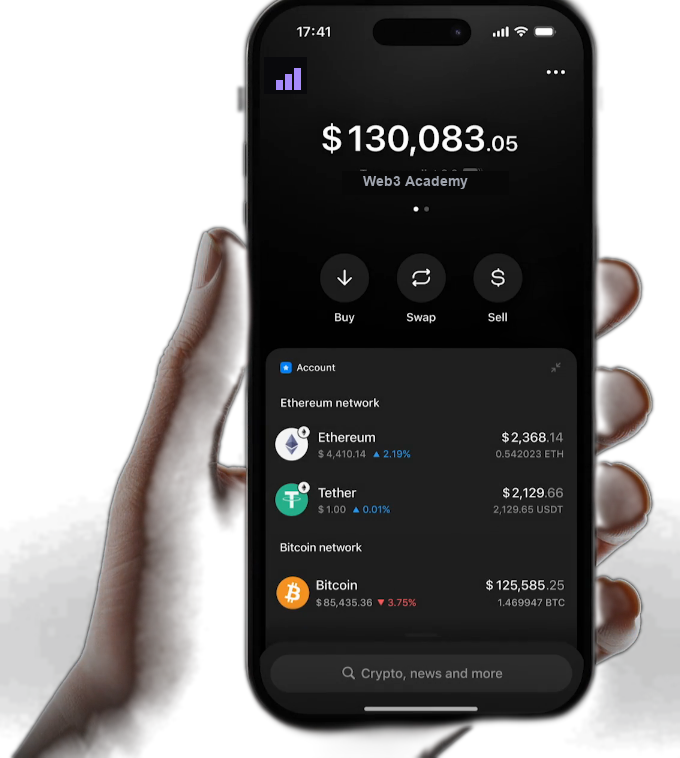
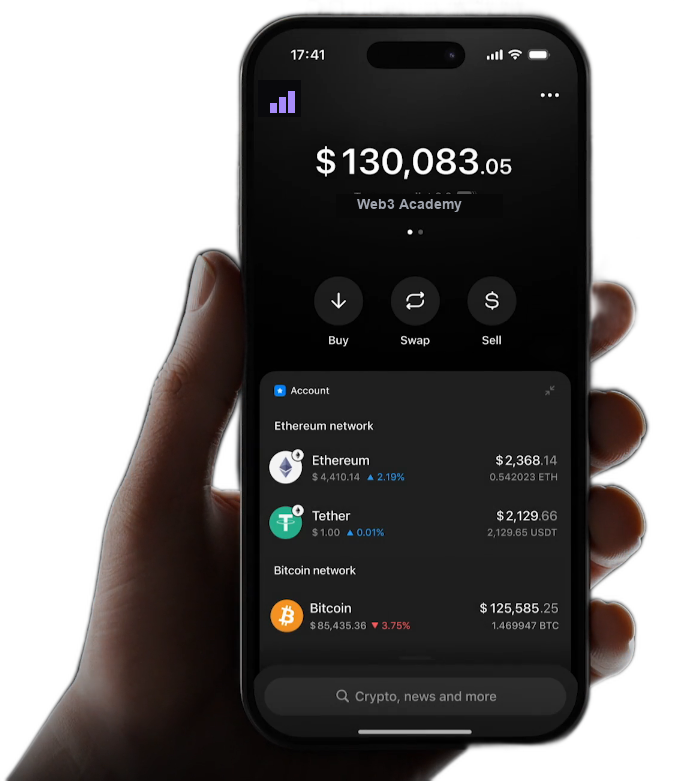
v10.5: телефон+рука — чистый двойной AI-вырез (isnet телефон + u2net_human_seg рука, подъём теней). Органичный силуэт, верх айфона целый, без срезов/контуров/«ушек». ?v=9.

diff --git a/index.html b/index.html
@@ -1076,7 +1076,7 @@ html.lenis,html.lenis body{height:auto}
         <p class="lead">Вся система CGS — в одной удобной Майнд-карте: Зоны Капитала, DeFi-инструменты, план действий на росте и падении рынка. Она живёт в Майнд-карте, а не в десятке таблиц.</p>
       </div>
       <div class="phone-wrap" data-dive>
-        <img class="phone-photo" src="assets/phone-hand.png?v=8" alt="Приложение Web3 Academy — портфель и система CGS в руке">
+        <img class="phone-photo" src="assets/phone-hand.png?v=9" alt="Приложение Web3 Academy — портфель и система CGS в руке">
         <div class="phone" hidden>
           <div class="screen">
             <div class="cgs-dash">